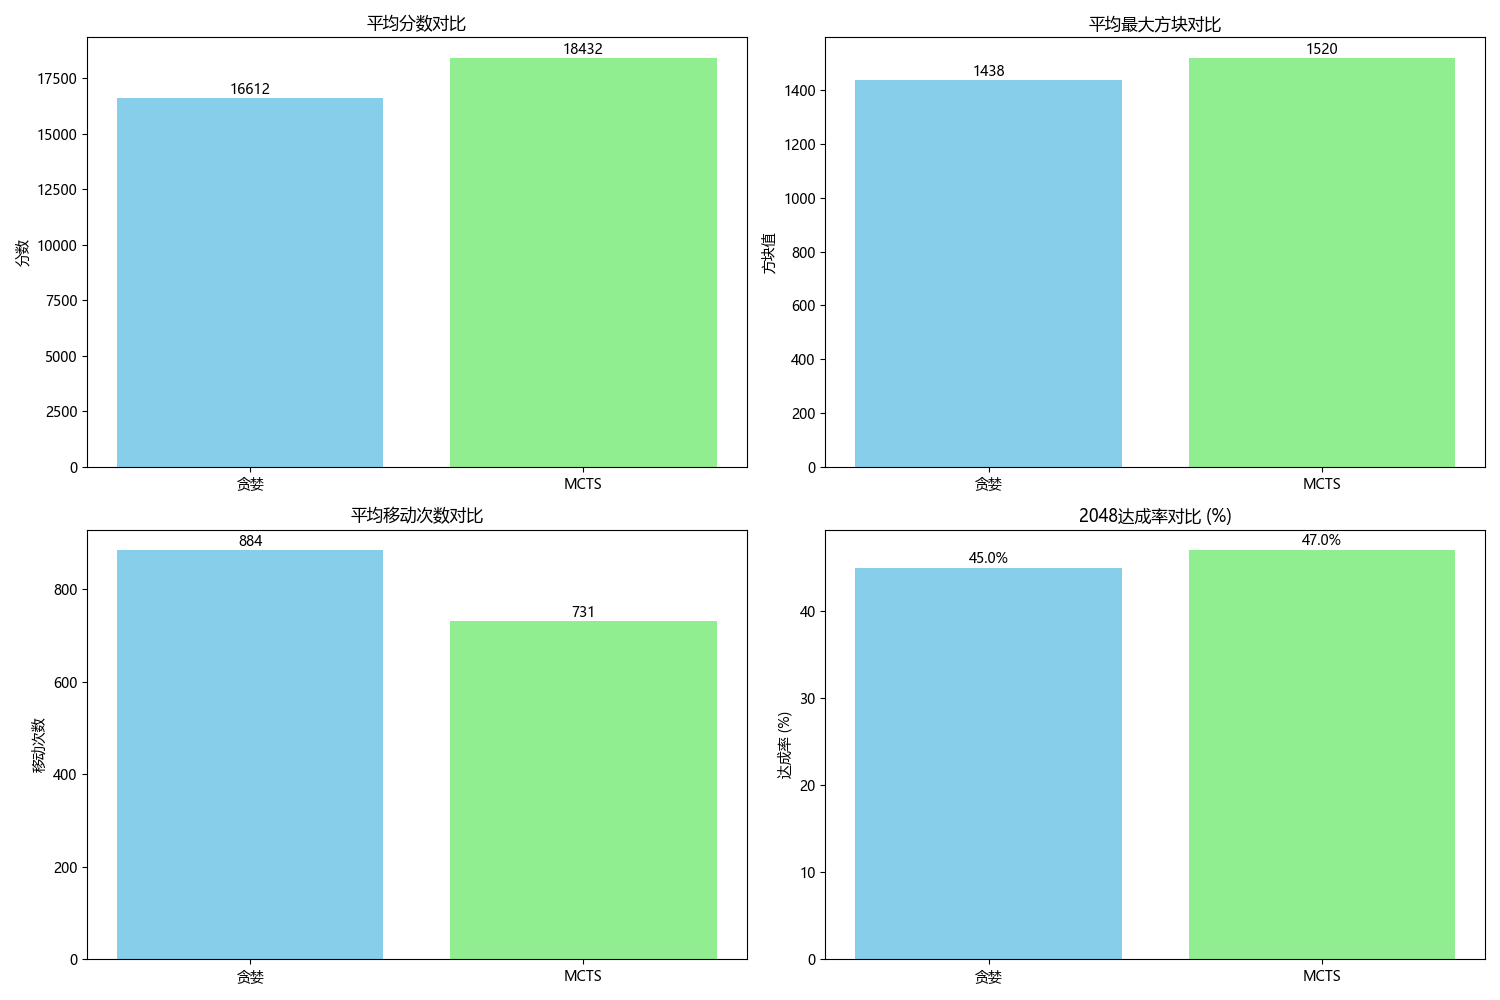
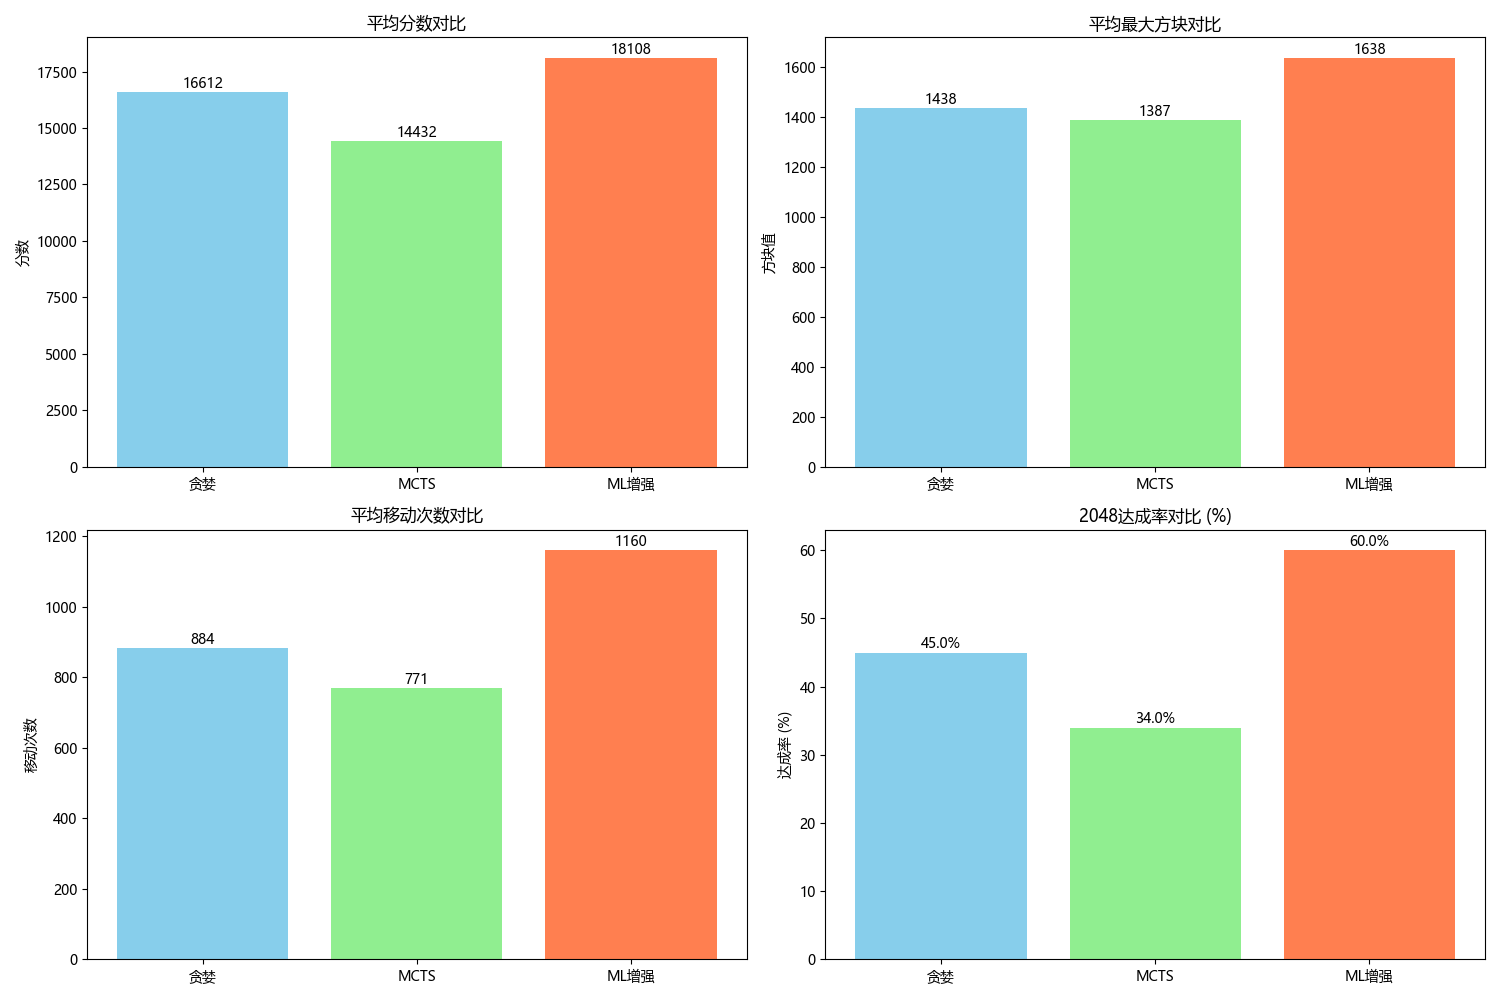
2048测试完毕

diff --git a/2048/test.py b/2048/test.py
@@ -359,7 +359,7 @@ def compare_ai_results(greedy_results=None, mcts_results=None, ml_results=None,
 
 
 if __name__ == "__main__":
-    num_games = 100
+    num_games = 10
     max_moves = 2000
     
     
@@ -386,9 +386,9 @@ if __name__ == "__main__":
 
     # 比较所有AI类型的结果
 
-    # compare_ai_results(
-    #     greedy_path=get_path("results/greedy_results.json"),
-    #     mcts_path=get_path("results/mcts_results.json"),
-    #     ml_path=get_path("results/ml_results.json"),
-    #     save_path=get_path("results/ai_comparison.json")
-    # )
+    compare_ai_results(
+        greedy_path=get_path("results/greedy_results.json"),
+        mcts_path=get_path("results/mcts_results.json"),
+        ml_path=get_path("results/ml_results.json"),
+        save_path=get_path("results/ai_comparison.json")
+    )

diff --git a/2048/LLM.py b/2048/LLM.py
@@ -158,7 +158,7 @@ class LLM_AI2048(Greedy_AI2048):
             model=self.model,
             prompt=prompt,
             result_format='message',
-            max_tokens=300,
+            max_tokens=1000,
             temperature=0.1
         )
         

diff --git a/2048/Greedy_ai.py b/2048/Greedy_ai.py
@@ -54,7 +54,6 @@ class Greedy_AI2048:
                     
         return best_move, best_score
 
-
     def _evaluate(self, game):
         """
         贪婪策略评估函数

diff --git a/2048/utils.py b/2048/utils.py
@@ -23,7 +23,7 @@ TWO = 2
 FOUR = 4
 
 # AI移动延迟 (ms)
-AI_DELAY = 80
+AI_DELAY = 0
 
 # 主题定义
 THEMES = {
